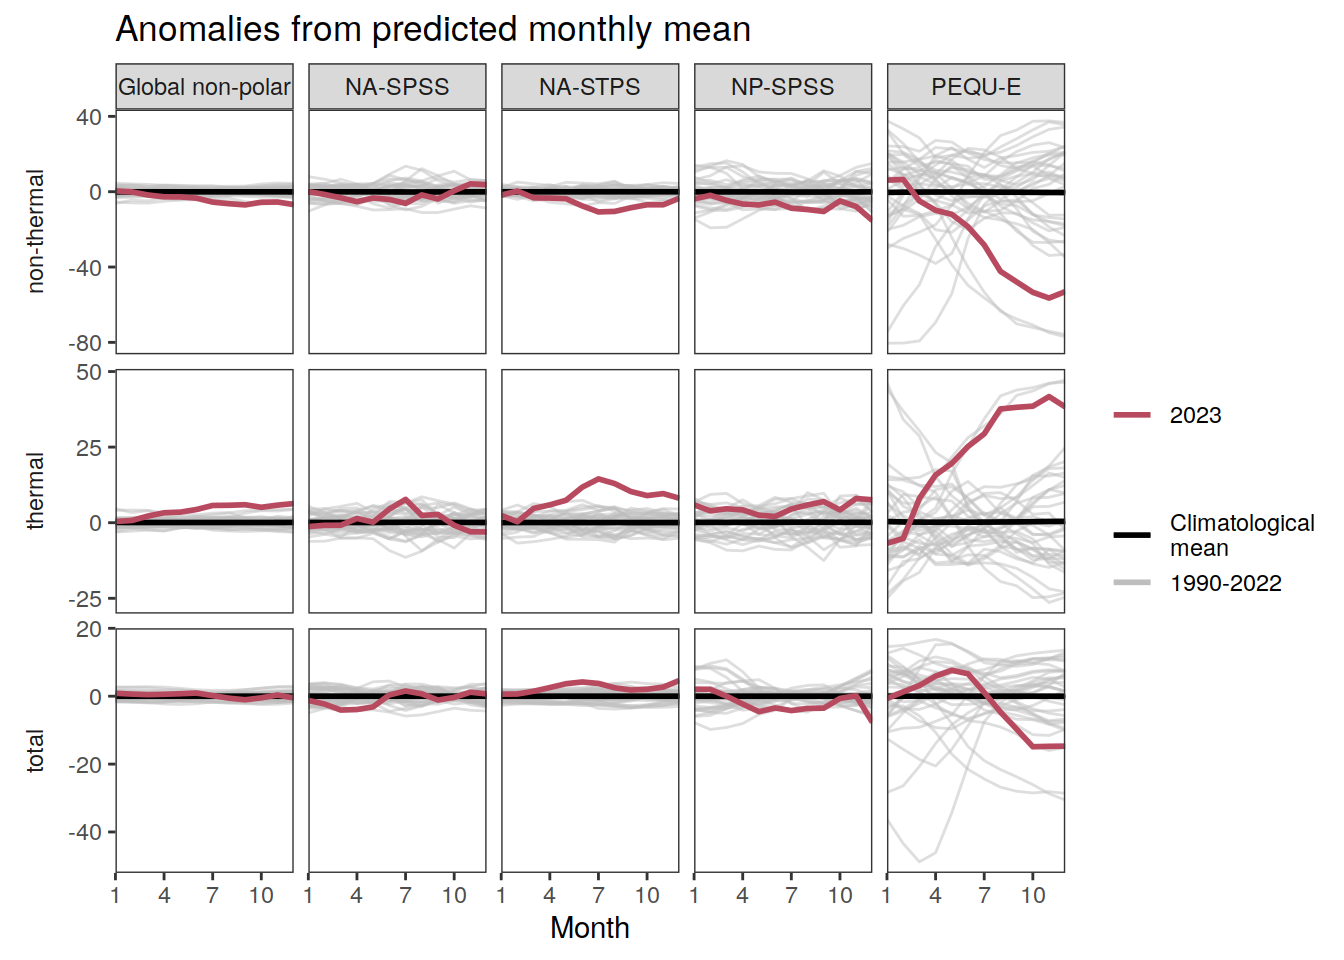
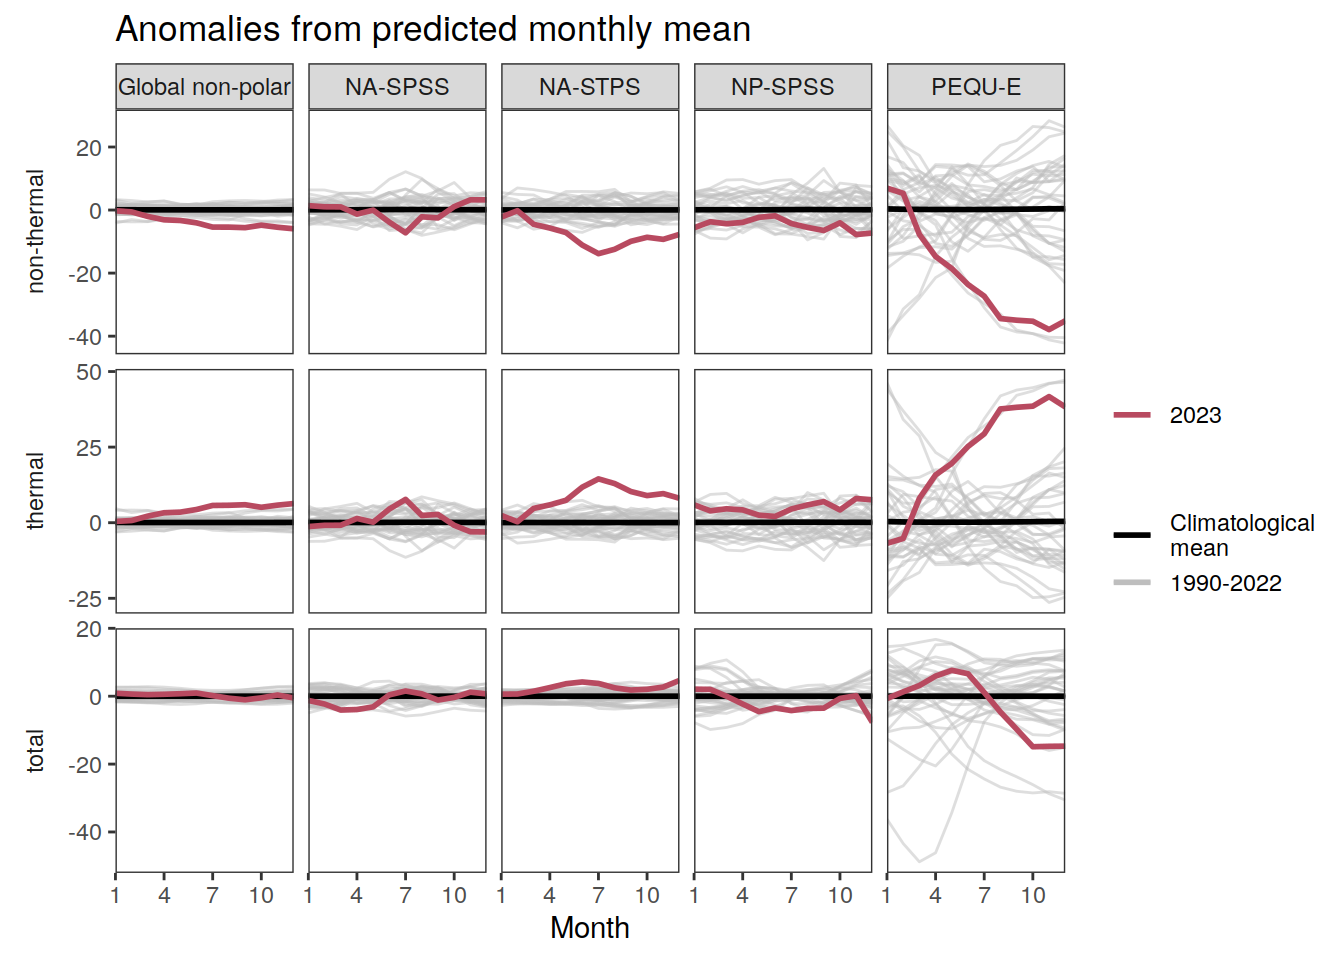
Build site.

Changed region(s): [[0.0625, 0.125, 0.8125, 0.375], [0.0625, 0.0938, 0.0938, 0.1562], [0.0312, 0.3438, 0.0938, 0.375]]

diff --git a/docs/SOM_FFN.html b/docs/SOM_FFN.html
@@ -445,7 +445,7 @@ div.tocify {
 
 <h1 class="title toc-ignore">SOM_FFN</h1>
 <h4 class="author">Jens Daniel Müller</h4>
-<h4 class="date">09 September, 2024</h4>
+<h4 class="date">26 September, 2024</h4>
 
 </div>
 
@@ -474,7 +474,7 @@ class="glyphicon glyphicon-ok text-success" aria-hidden="true"></span>
 <div class="tab-content">
 <div id="summary" class="tab-pane fade in active">
 <p>
-<strong>Last updated:</strong> 2024-09-09
+<strong>Last updated:</strong> 2024-09-26
 </p>
 <p>
 <strong>Checks:</strong> <span
@@ -606,15 +606,15 @@ project makes it easier to run your code on other machines.</p>
 <div class="panel panel-default">
 <div class="panel-heading">
 <p class="panel-title">
-<a data-toggle="collapse" data-parent="#workflowr-checks" href="#strongRepositoryversionstrongahrefhttpsgithubcomjensdanielmuellerheatwaveco2flux2023tree614ebfce516065ffc03990cf036c6768d9769765targetblank614ebfca">
+<a data-toggle="collapse" data-parent="#workflowr-checks" href="#strongRepositoryversionstrongahrefhttpsgithubcomjensdanielmuellerheatwaveco2flux2023tree6108174b45a69208636a4474826e0443b95f1821targetblank6108174a">
 <span class="glyphicon glyphicon-ok text-success"
 aria-hidden="true"></span> <strong>Repository version:</strong>
-<a href="https://github.com/jens-daniel-mueller/heatwave_co2_flux_2023/tree/614ebfce516065ffc03990cf036c6768d9769765" target="_blank">614ebfc</a>
+<a href="https://github.com/jens-daniel-mueller/heatwave_co2_flux_2023/tree/6108174b45a69208636a4474826e0443b95f1821" target="_blank">6108174</a>
 </a>
 </p>
 </div>
 <div
[2 lines of base64/hex data omitted]
 class="panel-collapse collapse">
 <div class="panel-body">
 <p>
@@ -624,7 +624,7 @@ reproducibility.
 </p>
 <p>
 The results in this page were generated with repository version
-<a href="https://github.com/jens-daniel-mueller/heatwave_co2_flux_2023/tree/614ebfce516065ffc03990cf036c6768d9769765" target="_blank">614ebfc</a>.
+<a href="https://github.com/jens-daniel-mueller/heatwave_co2_flux_2023/tree/6108174b45a69208636a4474826e0443b95f1821" target="_blank">6108174</a>.
 See the <em>Past versions</em> tab to see a history of the changes made
 to the R Markdown and HTML files.
 </p>
@@ -646,7 +646,7 @@ Ignored files:
 
 Unstaged changes:
     Modified:   analysis/child/pCO2_product_analysis.Rmd
-    Modified:   analysis/child/pCO2_product_preprocessing.Rmd
+    Modified:   analysis/child/pCO2_product_synopsis.Rmd
     Modified:   code/Workflowr_project_managment.R
 
 </code></pre>
@@ -693,6 +693,23 @@ Message
 </tr>
 </thead>
 <tbody>
+<tr>
+<td>
+html
+</td>
+<td>
+<a href="https://rawcdn.githack.com/jens-daniel-mueller/heatwave_co2_flux_2023/e8278172c9c55b5a20bf49460c4b5ffc959b15fb/docs/SOM_FFN.html" target="_blank">e827817</a>
+</td>
+<td>
+jens-daniel-mueller
+</td>
+<td>
+2024-09-09
+</td>
+<td>
+Build site.
+</td>
+</tr>
 <tr>
 <td>
 html
@@ -3262,6 +3279,56 @@ p_season &lt;- function(df,
   pco2_product_biome_monthly_fCO2_decomposition &lt;-
     pco2_product_biome_monthly_fCO2_decomposition %&gt;%
     mutate(sfco2_nontherm = sfco2_total - sfco2_therm)
+  
+  pco2_product_biome_monthly_fCO2_decomposition &lt;-
+    pco2_product_biome_monthly_fCO2_decomposition %&gt;%
+    select(-c(temperature, sfco2)) %&gt;%
+    pivot_longer(starts_with(&quot;sfco2&quot;),
+                 values_to = &quot;resid&quot;)
+  
+}</code></pre>
+<pre class="r"><code>fco2_decomposition &lt;- function(df, ...) {
+  
+  group_by &lt;- quos(...)
+  # group_by &lt;- quos(lon, lat, month)
+  # group_by &lt;- quos(biome, year, month)
+  
+  pco2_product_biome_monthly_fCO2_decomposition &lt;-
+    df %&gt;%
+    filter(name %in% c(&quot;temperature&quot;, &quot;sfco2&quot;))
+  
+  pco2_product_biome_monthly_fCO2_decomposition &lt;-
+    inner_join(
+      pco2_product_biome_monthly_fCO2_decomposition %&gt;%
+        filter(name == &quot;temperature&quot;) %&gt;%
+        select(-c(value, fit)) %&gt;%
+        pivot_wider(values_from = resid),
+      pco2_product_biome_monthly_fCO2_decomposition %&gt;%
+        filter(name == &quot;sfco2&quot;) %&gt;%
+        select(-c(value, resid)) %&gt;%
+        pivot_wider(values_from = fit)
+    )
+  
+  pco2_product_biome_monthly_fCO2_decomposition &lt;-
+    pco2_product_biome_monthly_fCO2_decomposition %&gt;%
+    mutate(
+      sfco2_therm = (sfco2 * exp(0.0423 * temperature)) - sfco2,
+      sfco2_nontherm = (sfco2 * exp(-0.0423 * temperature)) - sfco2)
+  
+  
+  pco2_product_biome_monthly_fCO2_decomposition &lt;-
+    inner_join(
+      pco2_product_biome_monthly_fCO2_decomposition,
+      df %&gt;%
+        filter(name %in% c(&quot;sfco2&quot;)) %&gt;%
+        select(-c(value, fit, name)) %&gt;%
+        rename(sfco2_total = resid)
+    )
+  
+  
+  # pco2_product_biome_monthly_fCO2_decomposition &lt;-
+  #   pco2_product_biome_monthly_fCO2_decomposition %&gt;%
+  #   mutate(sfco2_nontherm = sfco2_total - sfco2_therm)
   
   pco2_product_biome_monthly_fCO2_decomposition &lt;-
     pco2_product_biome_monthly_fCO2_decomposition %&gt;%
@@ -5994,8 +6061,8 @@ jens-daniel-mueller
 
 gc()</code></pre>
 <pre><code>             used    (Mb) gc trigger    (Mb)   max used    (Mb)
-Ncells    3208849   171.4   86747546  4632.9  264732497 14138.3
-Vcells 2543904538 19408.5 6442226558 49150.3 6442219008 49150.3</code></pre>
+Ncells    3208876   171.4   86758698  4633.5  264766531 14140.1
+Vcells 2543905339 19408.5 6442228268 49150.4 6442219833 49150.3</code></pre>
 <pre class="r"><code>map +
   geom_tile(data = pco2_product_map_annual_fCO2_decomposition %&gt;%
               filter(year == 2023), aes(lon, lat, fill = resid)) +
@@ -6208,8 +6275,8 @@ jens-daniel-mueller
 </div>
 <pre class="r"><code>gc()</code></pre>
 <pre><code>             used    (Mb) gc trigger    (Mb)   max used    (Mb)
-Ncells    3229637   172.5   69398037  3706.3  264732497 14138.3
-Vcells 2810616161 21443.3 6442226558 49150.3 6442219008 49150.3</code></pre>
+Ncells    3229664   172.5   69406959  3706.8  264766531 14140.1
+Vcells 2810616962 21443.4 6442228268 49150.4 6442219833 49150.3</code></pre>
 <pre class="r"><code>pco2_product_map_monthly_anomaly %&gt;%
   filter(year == 2023) %&gt;%
   write_csv(
@@ -14319,6 +14386,17 @@ Date
 <tbody>
 <tr>
 <td>
+<a href="https://github.com/jens-daniel-mueller/heatwave_co2_flux_2023/blob/e8278172c9c55b5a20bf49460c4b5ffc959b15fb/docs/figure/SOM_FFN.Rmd/2023_absolute_means_and_integrals_global-1.png" target="_blank">e827817</a>
+</td>
+<td>
+jens-daniel-mueller
+</td>
+<td>
+2024-09-09
+</td>
+</tr>
+<tr>
+<td>
 <a href="https://github.com/jens-daniel-mueller/heatwave_co2_flux_2023/blob/f2205291a27392319a2d6ddb1dd36d57a28a59e9/docs/figure/SOM_FFN.Rmd/2023_absolute_means_and_integrals_global-1.png" target="_blank">f220529</a>
 </td>
 <td>
@@ -15726,6 +15804,17 @@ Date
 <tbody>
 <tr>
 <td>
+<a href="https://github.com/jens-daniel-mueller/heatwave_co2_flux_2023/blob/e8278172c9c55b5a20bf49460c4b5ffc959b15fb/docs/figure/SOM_FFN.Rmd/2023_annual_mean_trends-1.png" target="_blank">e827817</a>
+</td>
+<td>
+jens-daniel-mueller
+</td>
+<td>
+2024-09-09
+</td>
+</tr>
+<tr>
+<td>
 <a href="https://github.com/jens-daniel-mueller/heatwave_co2_flux_2023/blob/f2205291a27392319a2d6ddb1dd36d57a28a59e9/docs/figure/SOM_FFN.Rmd/2023_annual_mean_trends-1.png" target="_blank">f220529</a>
 </td>
 <td>
@@ -16223,6 +16312,17 @@ Date
 </tr>
 </thead>
 <tbody>
+<tr>
+<td>
+<a href="https://github.com/jens-daniel-mueller/heatwave_co2_flux_2023/blob/e8278172c9c55b5a20bf49460c4b5ffc959b15fb/docs/figure/SOM_FFN.Rmd/2023_annual_mean_trends-3.png" target="_blank">e827817</a>
+</td>
+<td>
+jens-daniel-mueller
+</td>
+<td>
+2024-09-09
+</td>
+</tr>
 <tr>
 <td>
 <a href="https://github.com/jens-daniel-mueller/heatwave_co2_flux_2023/blob/f2205291a27392319a2d6ddb1dd36d57a28a59e9/docs/figure/SOM_FFN.Rmd/2023_annual_mean_trends-3.png" target="_blank">f220529</a>
@@ -16767,6 +16867,17 @@ Date
 </tr>
 </thead>
 <tbody>
+<tr>
+<td>
+<a href="https://github.com/jens-daniel-mueller/heatwave_co2_flux_2023/blob/e8278172c9c55b5a20bf49460c4b5ffc959b15fb/docs/figure/SOM_FFN.Rmd/2023_anomalies_from_annual_mean_trends_overview-1.png" target="_blank">e827817</a>
+</td>
+<td>
+jens-daniel-mueller
+</td>
+<td>
+2024-09-09
+</td>
+</tr>
 <tr>
 <td>
 <a href="https://github.com/jens-daniel-mueller/heatwave_co2_flux_2023/blob/f2205291a27392319a2d6ddb1dd36d57a28a59e9/docs/figure/SOM_FFN.Rmd/2023_anomalies_from_annual_mean_trends_overview-1.png" target="_blank">f220529</a>
@@ -18487,6 +18598,17 @@ Date
 </tr>
 </thead>
 <tbody>
+<tr>
+<td>
+<a href="https://github.com/jens-daniel-mueller/heatwave_co2_flux_2023/blob/e8278172c9c55b5a20bf49460c4b5ffc959b15fb/docs/figure/SOM_FFN.Rmd/2023_anomalies_from_monthly_mean_trends_global-1.png" target="_blank">e827817</a>
+</td>
+<td>
+jens-daniel-mueller
+</td>
+<td>
+2024-09-09
+</td>
+</tr>
 <tr>
 <td>
 <a href="https://github.com/jens-daniel-mueller/heatwave_co2_flux_2023/blob/f2205291a27392319a2d6ddb1dd36d57a28a59e9/docs/figure/SOM_FFN.Rmd/2023_anomalies_from_monthly_mean_trends_global-1.png" target="_blank">f220529</a>
@@ -20343,6 +20465,17 @@ Date
 <tbody>
 <tr>
 <td>
+<a href="https://github.com/jens-daniel-mueller/heatwave_co2_flux_2023/blob/e8278172c9c55b5a20bf49460c4b5ffc959b15fb/docs/figure/SOM_FFN.Rmd/2023_anomalies_correlation_absolute_global_annual-1.png" target="_blank">e827817</a>
+</td>
+<td>
+jens-daniel-mueller
+</td>
+<td>
+2024-09-09
+</td>
+</tr>
+<tr>
+<td>
 <a href="https://github.com/jens-daniel-mueller/heatwave_co2_flux_2023/blob/f2205291a27392319a2d6ddb1dd36d57a28a59e9/docs/figure/SOM_FFN.Rmd/2023_anomalies_correlation_absolute_global_annual-1.png" target="_blank">f220529</a>
 </td>
 <td>
@@ -20650,6 +20783,17 @@ Date
 </tr>
 </thead>
 <tbody>
+<tr>
+<td>
+<a href="https://github.com/jens-daniel-mueller/heatwave_co2_flux_2023/blob/e8278172c9c55b5a20bf49460c4b5ffc959b15fb/docs/figure/SOM_FFN.Rmd/2023_anomalies_correlation_absolute_global_monthly-1.png" target="_blank">e827817</a>
+</td>
+<td>
+jens-daniel-mueller
+</td>
+<td>
+2024-09-09
+</td>
+</tr>
 <tr>
 <td>
 <a href="https://github.com/jens-daniel-mueller/heatwave_co2_flux_2023/blob/f2205291a27392319a2d6ddb1dd36d57a28a59e9/docs/figure/SOM_FFN.Rmd/2023_anomalies_correlation_absolute_global_monthly-1.png" target="_blank">f220529</a>
@@ -21273,6 +21417,17 @@ Date
 <tbody>
 <tr>
 <td>
+<a href="https://github.com/jens-daniel-mueller/heatwave_co2_flux_2023/blob/e8278172c9c55b5a20bf49460c4b5ffc959b15fb/docs/figure/SOM_FFN.Rmd/2023_anomalies_correlation_realtive_to_spread_monthly-1.png" target="_blank">e827817</a>
+</td>
+<td>
+jens-daniel-mueller
+</td>
+<td>
+2024-09-09
+</td>
+</tr>
+<tr>
+<td>
 <a href="https://github.com/jens-daniel-mueller/heatwave_co2_flux_2023/blob/f2205291a27392319a2d6ddb1dd36d57a28a59e9/docs/figure/SOM_FFN.Rmd/2023_anomalies_correlation_realtive_to_spread_monthly-1.png" target="_blank">f220529</a>
 </td>
 <td>
@@ -21541,6 +21696,17 @@ Date
 <tbody>
 <tr>
 <td>
+<a href="https://github.com/jens-daniel-mueller/heatwave_co2_flux_2023/blob/e8278172c9c55b5a20bf49460c4b5ffc959b15fb/docs/figure/SOM_FFN.Rmd/pCO2_decomposition-1.png" target="_blank">e827817</a>
+</td>
+<td>
+jens-daniel-mueller
+</td>
+<td>
+2024-09-09
+</td>
+</tr>
+<tr>
+<td>
 <a href="https://github.com/jens-daniel-mueller/heatwave_co2_flux_2023/blob/f2205291a27392319a2d6ddb1dd36d57a28a59e9/docs/figure/SOM_FFN.Rmd/pCO2_decomposition-1.png" target="_blank">f220529</a>
 </td>
 <td>
@@ -21670,6 +21836,17 @@ Date
 <tbody>
 <tr>
 <td>
+<a href="https://github.com/jens-daniel-mueller/heatwave_co2_flux_2023/blob/e8278172c9c55b5a20bf49460c4b5ffc959b15fb/docs/figure/SOM_FFN.Rmd/flux_attribution-1.png" target="_blank">e827817</a>
+</td>
+<td>
+jens-daniel-mueller
+</td>
+<td>
+2024-09-09
+</td>
+</tr>
+<tr>
+<td>
 <a href="https://github.com/jens-daniel-mueller/heatwave_co2_flux_2023/blob/f2205291a27392319a2d6ddb1dd36d57a28a59e9/docs/figure/SOM_FFN.Rmd/flux_attribution-1.png" target="_blank">f220529</a>
 </td>
 <td>
@@ -21731,6 +21908,17 @@ Date
 </tr>
 </thead>
 <tbody>
+<tr>
+<td>
+<a href="https://github.com/jens-daniel-mueller/heatwave_co2_flux_2023/blob/e8278172c9c55b5a20bf49460c4b5ffc959b15fb/docs/figure/SOM_FFN.Rmd/flux_attribution_seasonal-1.png" target="_blank">e827817</a>
+</td>
+<td>
+jens-daniel-mueller
+</td>
+<td>
+2024-09-09
+</td>
+</tr>
 <tr>
 <td>
 <a href="https://github.com/jens-daniel-mueller/heatwave_co2_flux_2023/blob/f2205291a27392319a2d6ddb1dd36d57a28a59e9/docs/figure/SOM_FFN.Rmd/flux_attribution_seasonal-1.png" target="_blank">f220529</a>
